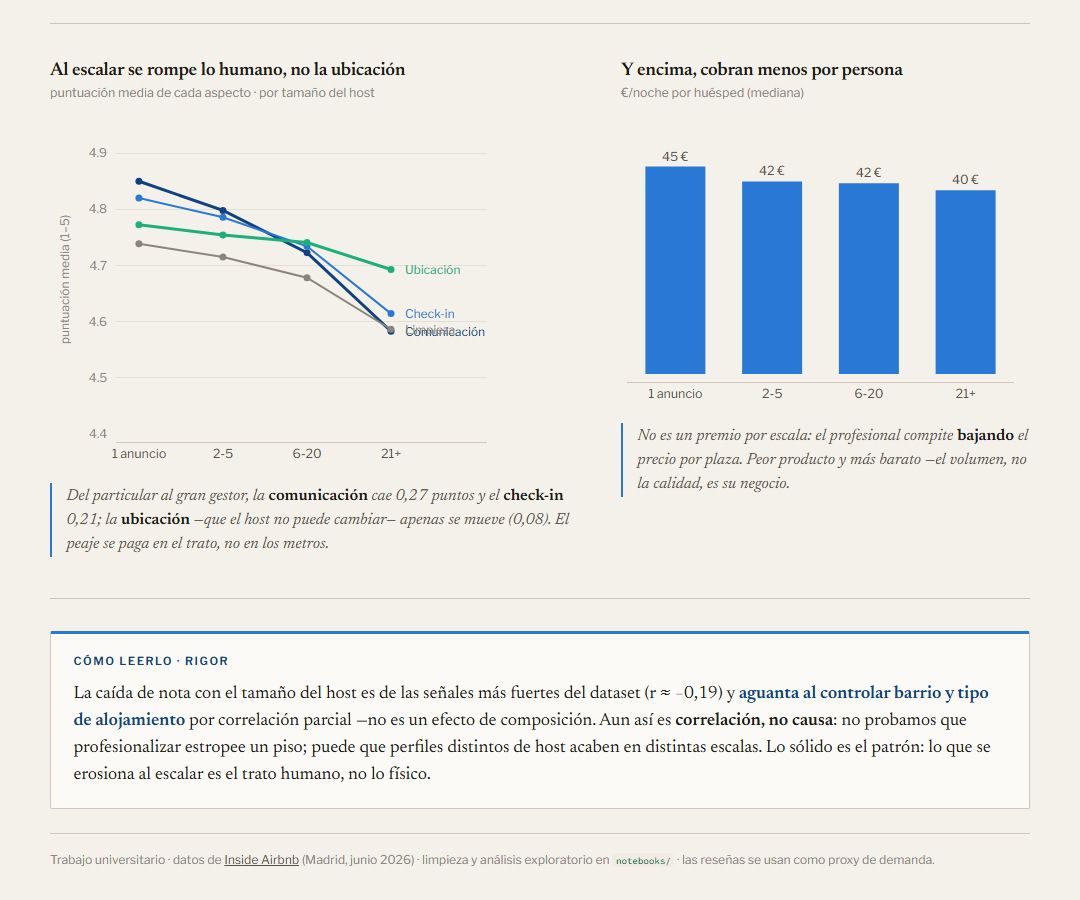
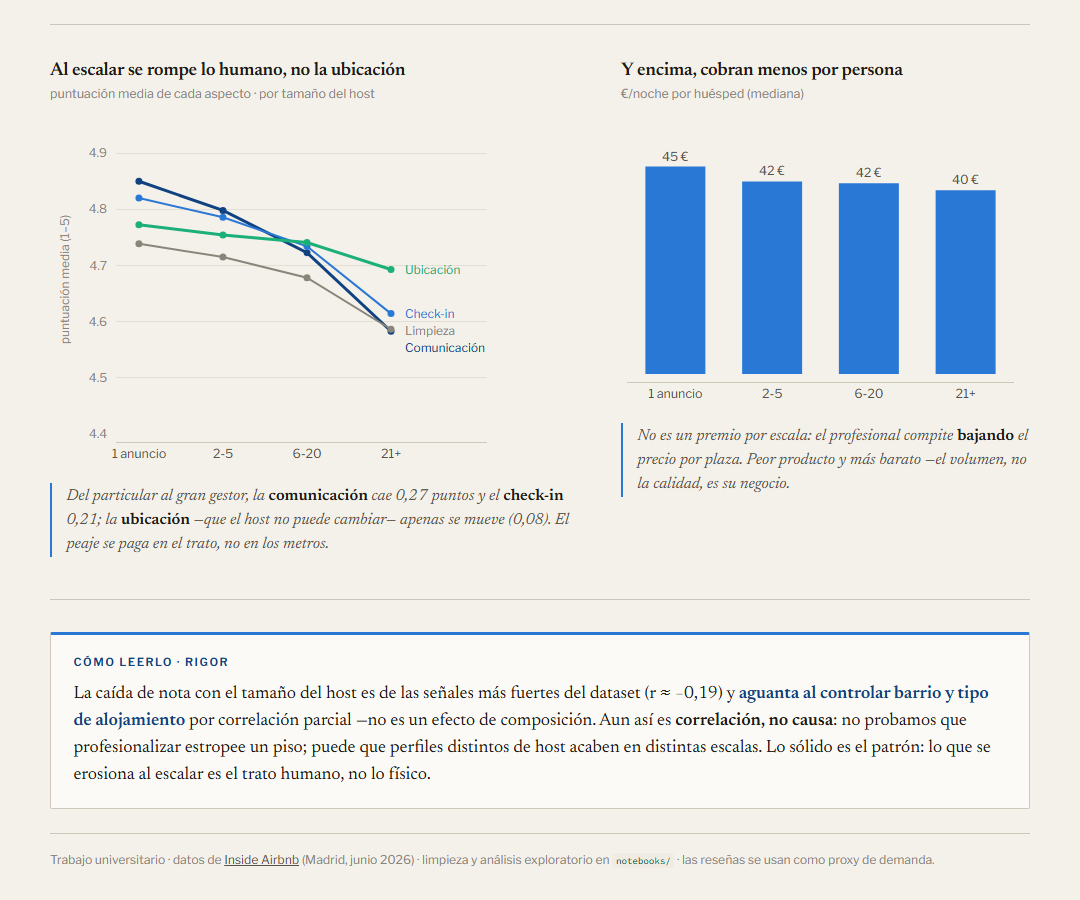
fix: corrige pestañas, línea de cifras y etiquetas solapadas del dashboard
- Pestañas: el CSS apuntaba a BaseWeb, que Streamlit sustituyó por
  react-aria, y ya no se aplicaba. Ahora se seleccionan por rol ARIA.
- requirements.txt: fija las versiones probadas del dashboard para que
  un cambio del HTML de Streamlit no vuelva a romper el CSS sin avisar.
- Hosts profesionales: etiquetas más cortas para que las cuatro cifras
  quepan en una fila; el tramo comparado pasa a una nota bajo cada cifra.
- Slope chart: separa las etiquetas finales cuando los valores casi
  coinciden (Limpieza quedaba oculta bajo Comunicación).
- Estacionalidad: la etiqueta de reparto uniforme pisaba las barras
  según el ancho; pasa al subtítulo.
- Regenera el GIF y las capturas del README.

diff --git a/app.py b/app.py
@@ -133,18 +133,19 @@ def inyectar_estilo():
     .callout p + p {{ margin-top: 0.72rem; }}
     .callout p b:first-child {{ color: {BLUE_D}; }}
 
-    /* ---- pestañas como navegación de secciones ---- */
-    .stTabs [data-baseweb="tab-list"] {{
-        gap: 2rem; border-bottom: 1px solid {BASE}; margin-bottom: 1.4rem;
-    }}
-    .stTabs [data-baseweb="tab"] {{
+    /* ---- pestañas como navegación de secciones ----
+       Streamlit >= 1.6x pinta las pestañas con react-aria: se seleccionan por rol ARIA
+       (estable entre versiones). El texto vive en un <p> hijo, que la regla base pondría
+       en tinta; por eso el color y la tipografía se fijan también en [role=tab] p. */
+    .stTabs [role="tablist"] {{ gap: 2rem; margin-bottom: 1.4rem; }}
+    .stTabs [role="tablist"]::after {{ background: {BASE}; height: 1px; }}
+    .stTabs [role="tab"], .stTabs [role="tab"] p {{
         font-family: {SANS}; font-weight: 600; font-size: 0.78rem; letter-spacing: 0.1em;
-        text-transform: uppercase; color: {MUTED}; padding: 0.2rem 0 0.7rem 0;
-        background: transparent;
+        text-transform: uppercase; color: {MUTED}; background: transparent;
     }}
-    .stTabs [aria-selected="true"] {{ color: {INK} !important; }}
-    .stTabs [data-baseweb="tab-highlight"] {{ background: {INK}; height: 2px; }}
-    .stTabs [data-baseweb="tab-border"] {{ background: transparent; }}
+    .stTabs [role="tab"][aria-selected="true"],
+    .stTabs [role="tab"][aria-selected="true"] p {{ color: {INK}; }}
+    .stTabs .react-aria-SelectionIndicator {{ background: {INK}; height: 2px; }}
 
     /* ---- sidebar ---- */
     [data-testid="stSidebar"] {{ background: {PAPER}; border-right: 1px solid {BASE}; }}
@@ -532,15 +533,14 @@ with tab_demanda:
         fig = go.Figure(go.Bar(
             x=MESES, y=perfil.values, marker_color=colores, width=0.62,
             hovertemplate='%{x}: %{y:.1f}% del año<extra></extra>'))
-        fig.add_hline(y=100 / 12, line_dash='dot', line_color=MUTED, line_width=1,
-                      annotation_text='reparto uniforme (8,3%)',
-                      annotation_font=dict(family=SANS, color=MUTED, size=11))
+        # sin etiqueta dentro del gráfico: según el ancho pisaba las barras; va en el subtítulo
+        fig.add_hline(y=100 / 12, line_dash='dot', line_color=MUTED, line_width=1)
         fig.update_yaxes(title='% de las reseñas del año', ticksuffix='%')
         base_layout(fig, 360)
         lineas(fig)
         fig.update_xaxes(tickfont=dict(color=INK2, size=11.5))
         titulo_grafico(c1, 'Octubre manda; agosto se hunde',
-                       'media 2015–2025, corregida de la tendencia de crecimiento')
+                       'media 2015–2025 des-tendenciada · punteado: reparto uniforme (8,3%)')
         c1.plotly_chart(fig, width='stretch')
         nota('Perfil <b>des-tendenciado</b> (el % del año que cae en cada mes, promediado '
              'entre años): Madrid es destino urbano —pico en otoño, valle en pleno verano—, '
@@ -693,22 +693,31 @@ with tab_pro:
         d_ppp = gg.precio_pp[a1] - gg.precio_pp[a0]
         share_pro = (fh.tipo_host == '21+').mean() * 100
 
+        # etiquetas cortas: con las largas la línea no cabía en una fila (<1000 px);
+        # el tramo comparado va en la nota bajo cada cifra
+        tramo = f'<div class="stat-note">{a0} → {a1}</div>'
         st.markdown(
             '<div class="statstrip">'
-            f'<div class="stat"><div class="stat-label">Oferta de grandes gestores (21+)</div>'
+            f'<div class="stat"><div class="stat-label">Oferta de gestores 21+</div>'
             f'<div class="stat-num">{share_pro:.0f}<small> %</small></div></div>'
-            f'<div class="stat"><div class="stat-label">Nota · particular → 21+</div>'
-            f'<div class="stat-num">{coma(d_rating)}<small> pts</small></div></div>'
-            f'<div class="stat"><div class="stat-label">Calidad-precio · mismo tramo</div>'
-            f'<div class="stat-num">{coma(d_valor)}<small> pts</small></div></div>'
+            f'<div class="stat"><div class="stat-label">Nota global</div>'
+            f'<div class="stat-num">{coma(d_rating)}<small> pts</small></div>{tramo}</div>'
+            f'<div class="stat"><div class="stat-label">Nota calidad-precio</div>'
+            f'<div class="stat-num">{coma(d_valor)}<small> pts</small></div>{tramo}</div>'
             f'<div class="stat"><div class="stat-label">Precio por persona</div>'
-            f'<div class="stat-num">{d_ppp:+.0f}<small> €</small></div></div>'
+            f'<div class="stat-num">{d_ppp:+.0f}<small> €</small></div>{tramo}</div>'
             '</div><hr class="rule-thin">',
             unsafe_allow_html=True)
 
         c1, c2 = st.columns([1.35, 1])
 
         # --- slope chart: dónde se rompe la calidad al escalar ---
+        # etiquetas al final de cada línea; si dos finales casi coinciden se separan
+        # hacia abajo (0,03 pts ≈ 18 px con range [4.4, 4.95] y 360 px de alto)
+        y_etq, suelo = {}, np.inf
+        for k in sorted(SUB, key=lambda k: -gg[k].iloc[-1]):
+            y_etq[k] = suelo = min(gg[k].iloc[-1], suelo - 0.03)
+
         fig = go.Figure()
         for k, (col, lab, color, ancho) in SUB.items():
             y = gg[k]
@@ -716,7 +725,7 @@ with tab_pro:
                 x=cats, y=y.values, mode='lines+markers',
                 line=dict(color=color, width=ancho), marker=dict(size=7),
                 hovertemplate=f'{lab} · %{{x}}: %{{y:.2f}}<extra></extra>')
-            fig.add_annotation(x=cats[-1], y=y.iloc[-1], text=lab, xanchor='left',
+            fig.add_annotation(x=cats[-1], y=y_etq[k], text=lab, xanchor='left',
                                xshift=12, showarrow=False,
                                font=dict(family=SANS, color=color, size=12))
         fig.update_yaxes(title='puntuación media (1–5)', range=[4.4, 4.95])
